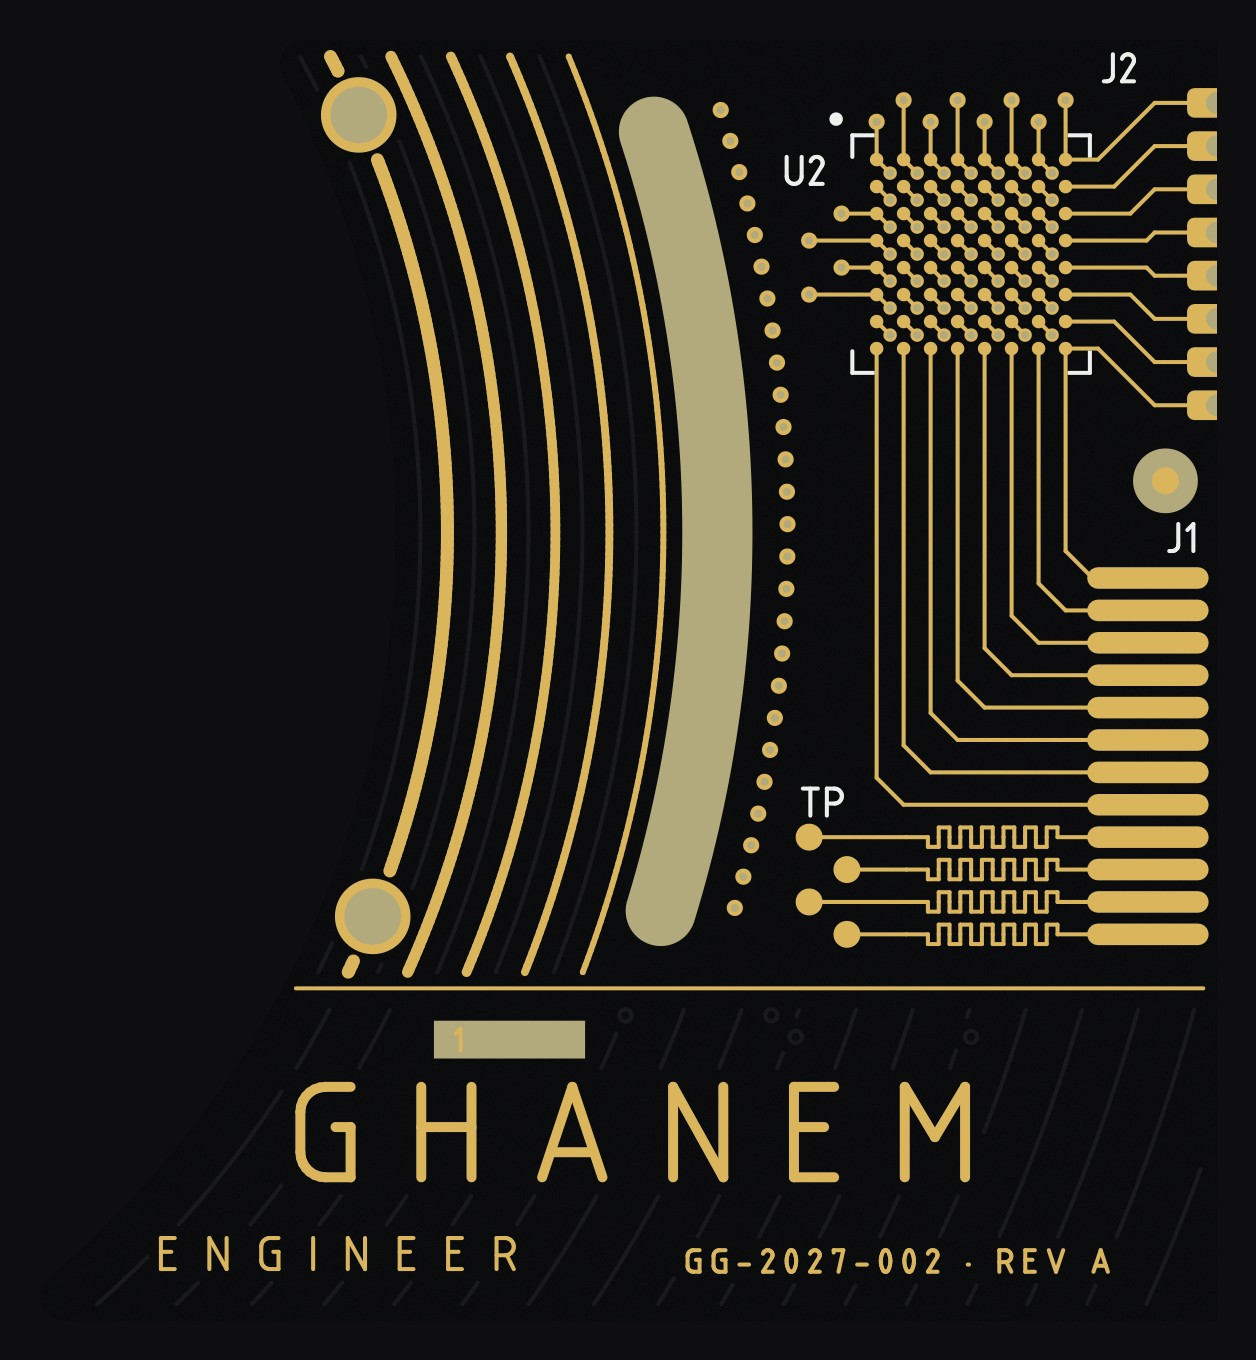
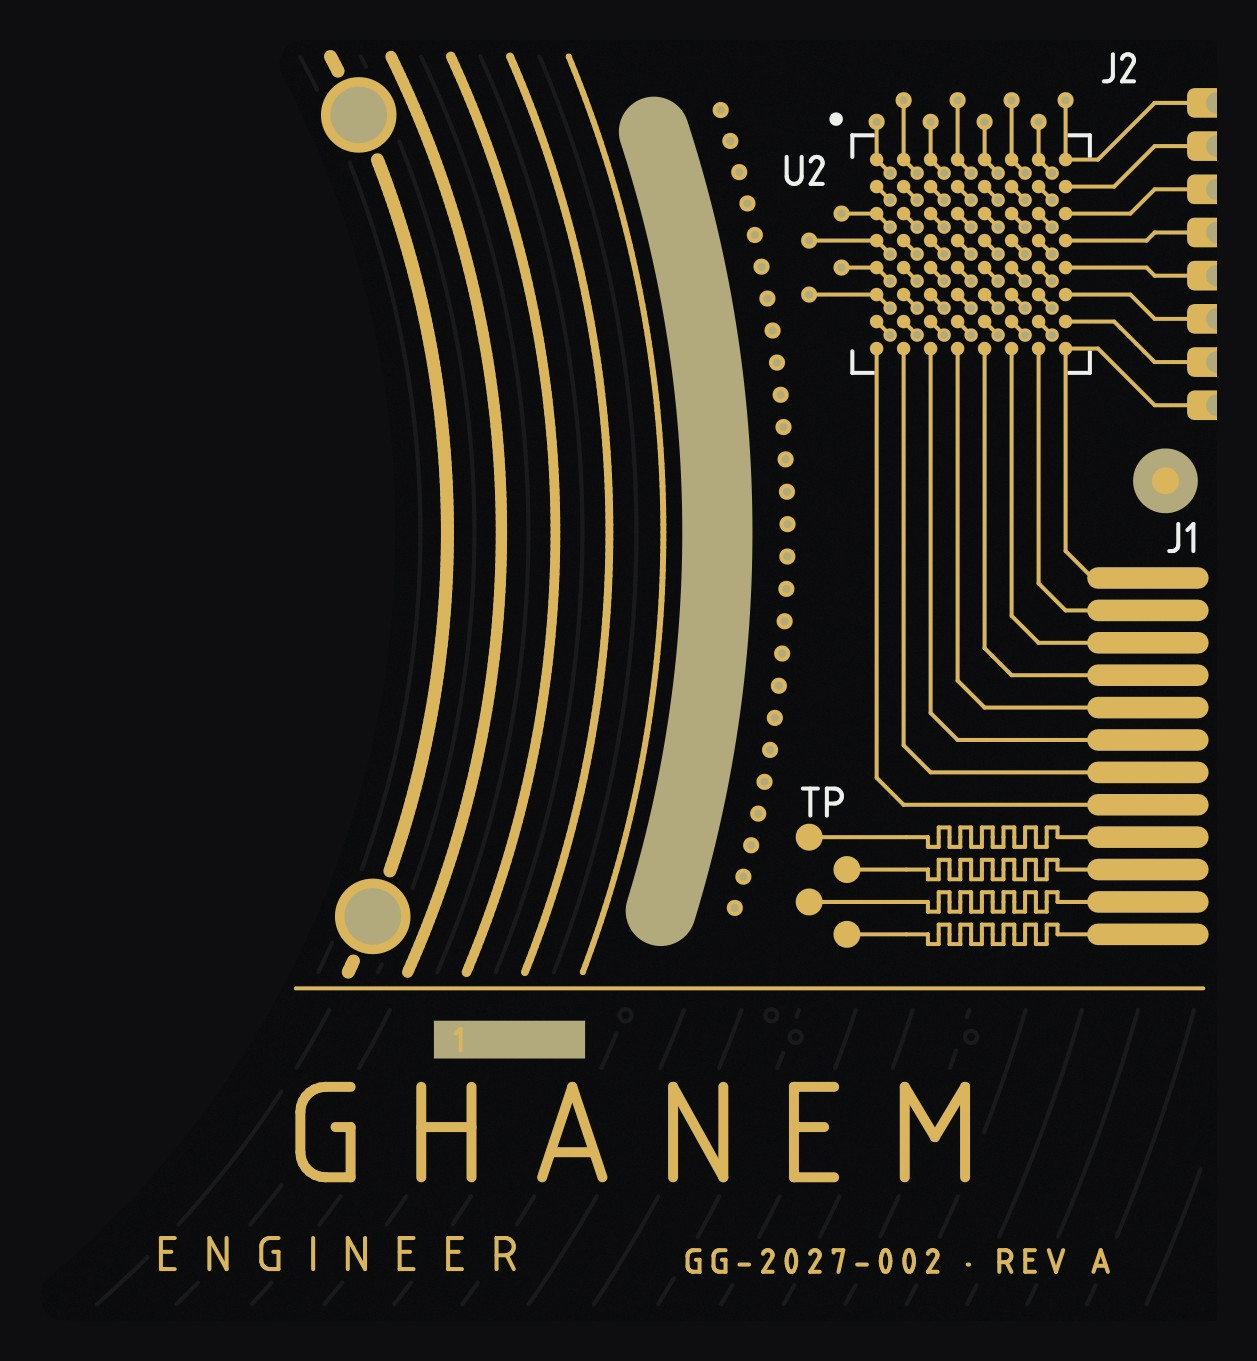
Decal images for the 3D model, Fusion assembly notes
- render.py also writes the board's two faces cropped exactly to its bounding box at 54 px/mm
- cad/hybrid README: how the Fusion assembly is put together and what Fusion measured on it

Claude-Session: https://claude.ai/code/session_01PLZk53NFWEnuPBUvBdDukh

diff --git a/pcb/revA/render.py b/pcb/revA/render.py
@@ -8,7 +8,7 @@ OUT = HERE / "out"
 PCB = OUT / "hybrid_card_revA.kicad_pcb"
 W = 2600
 
-def layer(name, mirror=False):
+def layer(name, mirror=False, W=W):
     svg = OUT / f"_l_{name.replace('.', '_')}.svg"
     cmd = ["kicad-cli", "pcb", "export", "svg", "--layers", name, "--black-and-white", "--page-size-mode", "2", "--exclude-drawing-sheet", "-o", str(svg), str(PCB)]
     if mirror: cmd.insert(4, "--mirror")
@@ -19,8 +19,9 @@ def layer(name, mirror=False):
     svg.unlink(); png.unlink()
     return 1.0 - a          # 1 where the layer has material
 
-def face(cu, mask, silk, mirror, lit_layers=None):
-    c, m, s, e = layer(cu, mirror), layer(mask, mirror), layer(silk, mirror), layer("Edge.Cuts", mirror)
+def face(cu, mask, silk, mirror, lit_layers=None, W=W, pad=40):
+    """pad=0 crops to the board's bounding box exactly, which is what a decal on the 3D model needs."""
+    c, m, s, e = layer(cu, mirror, W), layer(mask, mirror, W), layer(silk, mirror, W), layer("Edge.Cuts", mirror, W)
     h, w = c.shape
     # board interior = flood from the edge plot
     from scipy import ndimage
@@ -40,12 +41,16 @@ def face(cu, mask, silk, mirror, lit_layers=None):
         g = np.asarray(Image.fromarray((glow * 255).astype(np.uint8)).filter(ImageFilter.GaussianBlur(10)), dtype=np.float32) / 255
         col = col * 0.16 + np.array([1.0, 0.72, 0.30]) * glow[..., None] + np.array([1.0, 0.6, 0.2]) * g[..., None] * 0.6
     img = np.where(inside[..., None], col, img)
-    ys, xs = np.where(inside); pad = 40
-    img = img[max(0, ys.min() - pad):ys.max() + pad, max(0, xs.min() - pad):xs.max() + pad]
+    ys, xs = np.where(inside)
+    if pad == 0: img = np.where(inside[..., None], col, base * np.ones_like(col))      # mask colour outside too, so no seam shows at the edge
+    img = img[max(0, ys.min() - pad):ys.max() + pad + 1, max(0, xs.min() - pad):xs.max() + pad + 1]
     return Image.fromarray((np.clip(img, 0, 1) * 255).astype(np.uint8))
 
 if __name__ == "__main__":
     face("F.Cu", "F.Mask", "F.SilkS", False).convert("RGB").save(OUT / "preview_front.jpg", quality=90)
     face("B.Cu", "B.Mask", "B.SilkS", True).convert("RGB").save(OUT / "preview_back.jpg", quality=90)
     face("F.Cu", "F.Mask", "F.SilkS", False, ["In1.Cu", "In2.Cu", "B.Cu"]).convert("RGB").save(OUT / "preview_front_lit.jpg", quality=90)
+    # decals for the 3D model: exact crop to the board's bounding box, twice the resolution
+    face("F.Cu", "F.Mask", "F.SilkS", False, W=2 * W, pad=0).convert("RGB").save(OUT / "decal_front.jpg", quality=92)
+    face("B.Cu", "B.Mask", "B.SilkS", True, W=2 * W, pad=0).convert("RGB").save(OUT / "decal_back.jpg", quality=92)
     print("previews written")

diff --git a/pcb/revA/README.md b/pcb/revA/README.md
@@ -12,6 +12,7 @@ Rev A is a real board in the real outline, with a few coupon-only features, mean
 | `hybrid_card_revA_board.step` | 3D model of the board with its parts, in the card's CAD frame (see below). For the assembly with the aluminium half. |
 | `preview_front.jpg`, `preview_back.jpg`, `preview_front_lit.jpg` | Previews composited from KiCad's own layer plots. The back is shown as seen from the back. The lit view is a model, not a measurement. |
 | `hybrid_card_revA_BOM_JLC.csv`, `..._CPL_JLC.csv` | Assembly files in JLCPCB's column layout (draft). |
+| `decal_front.jpg`, `decal_back.jpg` | The same pictures cropped exactly to the board's bounding box (43.565 x 47.42 mm, 54 px/mm), to lay on the 3D model's faces. The back one is as seen from the back. |
 
 ## Geometry shared with the aluminium half (card frame, mm, origin = card top-left seen from the recto)
 

diff --git a/cad/hybrid/README.md b/cad/hybrid/README.md
@@ -78,3 +78,10 @@ Taken from the B2 mock-up, so the model and the picture cannot disagree. Two thi
 - The vernier now exists on both halves. Eleven ticks 1.50 deg apart on the underside of the ledge, eleven gold ticks
   1.35 deg apart on the back of the board, from 27.6 deg about the flexure centre. One step of coincidence is 0.1 mm at R40,
   so the back of the card shows how well the pins did their job.
+
+## In Fusion
+
+`Hybrid card revA - assembly` in the "Business card" project: the board STEP and the engraved aluminium STEP imported at
+the origin, the board's two faces carrying `pcb/revA/out/decal_front.jpg` and `decal_back.jpg` as decals
+(centre 63.7175, 26.99; 43.565 x 47.42 mm; the back one with X reversed). Fusion's own check on that document:
+aluminium body solid, 4443.7 mm3 (12.5 g of 7075), no interference between any two of the eleven bodies.
